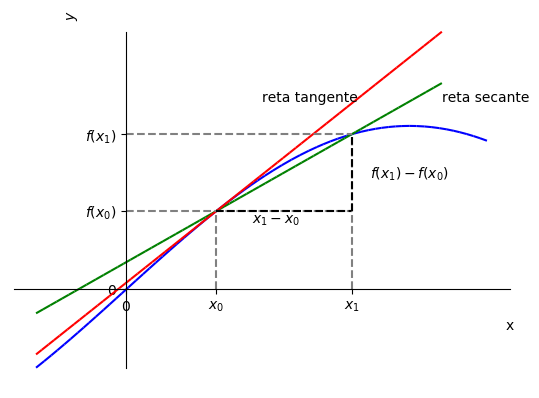
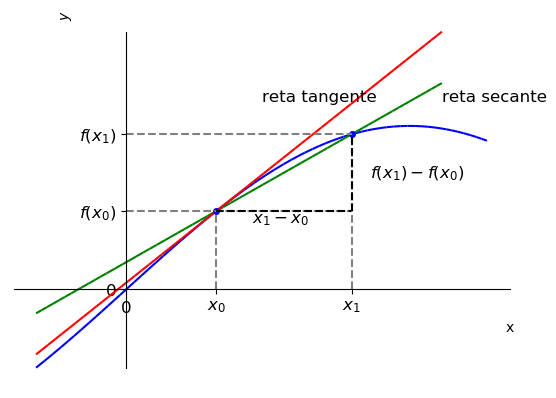
*: material introdutório sobre derivada

diff --git a/src/CalculoI/cap_deriv/cap_deriv.tex b/src/CalculoI/cap_deriv/cap_deriv.tex
@@ -4,8 +4,8 @@
 \thispagestyle{fancy}
 
 \ifispython
-\begin{obs}\normalfont{(Códigos \verb+Python+)}\label{obs:deriv_python}
-  Nos códigos \verb+Python+ inseridos ao longo deste capítulos, estaremos assumindo o seguinte preâmbulo:
+\begin{obs}\normalfont{(Códigos \verb+Python+)}\label{obs:cap_deriv_python}
+  Nos códigos \python~inseridos ao longo deste capítulos, estaremos assumindo o seguinte preâmbulo:
 \begin{verbatim}
 %matplotlib inline
 from sympy import *
@@ -15,7 +15,11 @@ var('x',real=True)
 \end{obs}
 \fi
 
-\section{Retas tangentes e derivadas}\label{cap_deriv_sec_retg}
+\section{Derivada em ponto}\label{cap_deriv_sec_derivpt}
+
+Nesta seção, vamos discutir sobre a noção de {\bf derivada de uma função em um ponto}. Começamos pelas noções de {\bf reta secante} e de {\bf reta tangente} ao gráfico de uma função. Em seguide, discutimos sobre as noções de {\bf taxa de variação média} e {\bf taxa de variação instantânea}. Por fim, definimos a derivada de uma função em um ponto.
+
+\subsection{Retas secante e tangente}
 
 Definimos a {\bf reta secante} ao gráfico de uma dada função $f$ pelos pontos $x_0$ e $x_1$, $x_0\neq x_1$, como sendo a reta determinada pela equação
 \begin{equation}
@@ -51,7 +55,27 @@ Menos formal, é a reta limite das retas secantes ao gráfico da função pelos 
 \end{obs}
 
 \begin{ex}
-  Seja $f(x)=x^2$ e $x_0 = 1$. O coeficiente angular da reta tangente ao gráfico de $f$ no ponto $x_0$ é
+  Seja $f(x)=x^2$ e $x_0 = 1$. O coeficiente angular da reta secante ao gráfico de $f$ pelos pontos $x_0=1$ e $x_1 = 2$ é
+  \begin{align}
+    m_{\text{sec}} &= \frac{f(x_1)-f(x_0)}{x_1-x_0}\\
+                   &= \frac{f(2) - f(1)}{2-1}\\
+                   &= 4-1 = 3.
+  \end{align}
+  Logo, a reta secante ao gráfico de $f$ pelos pontos $x_0=1$ e $x_1=2$ tem equação
+  \begin{align}
+    y = m_{\text{sec}}(x-x_0) + f(x_0) &\Rightarrow y = 3(x-1)+f(1)\\
+                                       &\Rightarrow y = 3x - 2.
+  \end{align}
+  Na Figura \ref{fig:cap_deriv_ex_rt_x2}, temos os esboços dos gráfico da função e da reta secante (verde).
+  
+  \begin{figure}[H]
+    \centering
+    \includegraphics[width=0.7\textwidth]{./cap_deriv/dados/fig_cap_deriv_ex_rt_x2/fig_cap_deriv_ex_rt_x2}
+    \caption{Esboços dos gráficos de $f(x)=x^2$ (azul), da reta secante pelos pontos $x_0=1$ e $x_1=2$ (verde) e da reta tangente ao gráfico de $f$ no ponto $x_0 = 1$ (vermelho).}
+    \label{fig:cap_deriv_ex_rt_x2}
+  \end{figure}
+
+  Agora, o coeficiente angular da reta tangente ao gráfico de $f$ no ponto $x_0$ é
   \begin{align}
     m_{\text{tg}} &= \lim_{h\to 0} \frac{f(x_0+h)-f(x_0)}{h}\\
                   &= \lim_{h\to 0} \frac{(1+h)^2-1}{h}\\
@@ -62,22 +86,33 @@ Menos formal, é a reta limite das retas secantes ao gráfico da função pelos 
   \begin{equation}
     y = 2(x-1)+1 = 2x-1.
   \end{equation}
+  Na Figura \ref{fig:cap_deriv_ex_rt_x2}, temos os esboços dos gráfico da função e da reta tangente (vermelho).
+  
   \ifispython
-  Com o \verb+SymPy+, podemos obter a reta tangente com os seguintes comandos:
+  Com o \sympy, podemos obter a expressão da reta secante com os seguintes comandos\footnote{Veja a Observação \ref{obs:cap_deriv_python}.}:
 \begin{verbatim}
-h = symbols('h',real=True)
-f = lambda x: x**2
 x0 = 1
-# coef. angular
+x1 = 2
+f = lambda x: x**2
+msec = (f(x1)-f(x0))/(x1-x0)
+msec*(x-x0)+f(x0)
+\end{verbatim}
+A expressão da reta tangente pode ser obtida com os seguintes comandos\footnote{Veja a Observação \ref{obs:cap_deriv_python}.}:
+\begin{verbatim}
+h = var("h",real=True)
+x0 = 1
+f = lambda x: x**2
 mtg = limit((f(x0+h)-f(x0))/h,h,0)
-
-# reta tangente
 mtg*(x-x0)+f(x0)
 \end{verbatim}
   \fi
 \end{ex}
 
-\subsection{A derivada em um ponto}
+\subsection{Taxas de variação}
+
+\emconstrucao
+
+\subsection{Derivada em um ponto}
 
 A {\bf derivada} de uma função $f$ {\bf em um ponto} $x=x_0$ é denotada por $f'(x_0)$ ou $\displaystyle \frac{\dd f}{\dd x}(x_0)$ e é definida por
 \begin{equation}
@@ -106,11 +141,15 @@ A {\bf derivada} de uma função $f$ {\bf em um ponto} $x=x_0$ é denotada por $
   \end{enumerate}
 \end{ex}
 
+\subsection*{Exercícios resolvidos}
+
+\emconstrucao
+
 \subsection*{Exercícios}
 
 \emconstrucao
 
-\section{Função derivada}\label{cap_deriv_sec_deriv}
+\section{Função derivada}\label{cap_deriv_sec_funder}
 
 A {\bf derivada} de uma função $f$ em relação à variável $x$ é a função $\displaystyle f' = \frac{\dd f}{\dd x}$ cujo valor em $x$ é
 \begin{equation}\label{eq:derivada}
@@ -336,7 +375,7 @@ simplify(diff(u/v,x))
                                                      &= 5x^4+4x^3+2x+1.
     \end{align}
     \ifispython
-    Com o \verb+SymPy+, podemos computar esta derivada com o seguinte comando\footnote{Veja a Observação \ref{obs:deriv_python}.}:
+    Com o \sympy, podemos computar esta derivada com o seguinte comando\footnote{Veja a Observação \ref{obs:cap_deriv_python}.}:
 \begin{verbatim}
 d = diff((x**2+x)*(1+x**3),x)
 simplify(d)
@@ -351,7 +390,7 @@ simplify(d)
                                                       &= \frac{x^4+2x^3+2x+1}{x^6-2x^3+1}
   \end{align}
   \ifispython
-  Com o \verb+SymPy+, podemos computar esta derivada com o seguinte comando\footnote{Veja a Observação \ref{obs:deriv_python}.}:
+  Com o \sympy, podemos computar esta derivada com o seguinte comando\footnote{Veja a Observação \ref{obs:cap_deriv_python}.}:
 \begin{verbatim}
 d = diff((x**2+x)/(1-x**3),x)
 simplify(d)

diff --git a/src/CalculoI/cap_deriv/dados/fig_retsectg/main.py b/src/CalculoI/cap_deriv/dados/fig_retsectg/main.py
@@ -18,23 +18,31 @@ p = p1
 p.extend(p2)
 p.extend(p3)
 p.ylabel = '$y$'
-p.save('fig_retsec.png')
+p.save('fig_retsectg.png')
 
 
 fig = p._backend.fig
 ax = fig.axes[0]
 ax.set_yticks([0,y0,y1])
-ax.set_yticklabels(['$0$','$f(x_0)$','$f(x_1)$'])
+ax.set_yticklabels(['$0$','$f(x_0)$','$f(x_1)$'],
+                   fontsize=12)
 ax.set_xticks([0,x0,x1])
-ax.set_xticklabels(['$0$','$x_0$','$x_1$'])
+ax.set_xticklabels(['$0$','$x_0$','$x_1$'],
+                   fontsize=12)
+ax.plot([x0],[y0],marker="o",markersize=4,color="blue")
+ax.plot([x1],[y1],marker="o",markersize=4,color="blue")
 ax.plot([x0,x0],[0,y0],ls='--',color='gray')
 ax.plot([0,x1],[y0,y0],ls='--',color='gray')
 ax.plot([x0,x1],[y0,y0],ls='--',color='black')
 ax.plot([x1,x1],[0,y1],ls='--',color='gray')
 ax.plot([x1,x1],[y0,y1],ls='--',color='black')
 ax.plot([0,x1],[y1,y1],ls='--',color='gray')
-ax.text(x1+0.1,y0+0.2,'$f(x_1)-f(x_0)$')
-ax.text(x0+0.2,y0-0.075,'$x_1-x_0$')
-ax.text(x1-0.5,y1+0.2,'reta tangente')
-ax.text(x1+0.5,y1+0.2,'reta secante')
-fig.savefig('fig_retsec.png', bbox_inches='tight')
+ax.text(x1+0.1,y0+0.2,'$f(x_1)-f(x_0)$',
+        fontsize=12)
+ax.text(x0+0.2,y0-0.075,'$x_1-x_0$',
+        fontsize=12)
+ax.text(x1-0.5,y1+0.2,'reta tangente',
+        fontsize=12)
+ax.text(x1+0.5,y1+0.2,'reta secante',
+        fontsize=12)
+fig.savefig('fig_retsectg.png', bbox_inches='tight')

diff --git a/src/CalculoI/cap_deriv/dados/fig_cap_deriv_ex_rt_x2/main.py b/src/CalculoI/cap_deriv/dados/fig_cap_deriv_ex_rt_x2/main.py
@@ -1,0 +1,26 @@
+from sympy import *
+var('x,y', real=True)
+
+x0 = 1
+
+p = plot(x**2, (x,-1,3), line_color="blue", show=False)
+q = plot(-1,(x,-1,3),line_color="none",show=False)
+p.extend(q)
+q = plot(2*x-1,(x,-1,3),line_color="red",show=False)
+p.extend(q)
+q = plot(3*x-2,(x,-1,3),line_color="green",show=False)
+p.extend(q)
+p.xlabel = '$x$'
+p.ylabel = '$y$'
+p.save('fig_cap_deriv_ex_rt_x2.png')
+
+fig = p._backend.fig
+ax = fig.axes[0]
+ax.grid()
+ax.set_ylim((-2,6))
+ax.plot([x0],[x0**2],marker="o",markersize=4,color="red")
+ax.plot([2],[4],marker="o",markersize=4,color="green")
+ax.text(1.75,5.1,"$y=x^2$")
+ax.text(2.52,5.4,"$y=3x-2$")
+ax.text(2.52,3.75,"$y=2x-1$")
+fig.savefig('fig_cap_deriv_ex_rt_x2.png', bbox_inches='tight')
